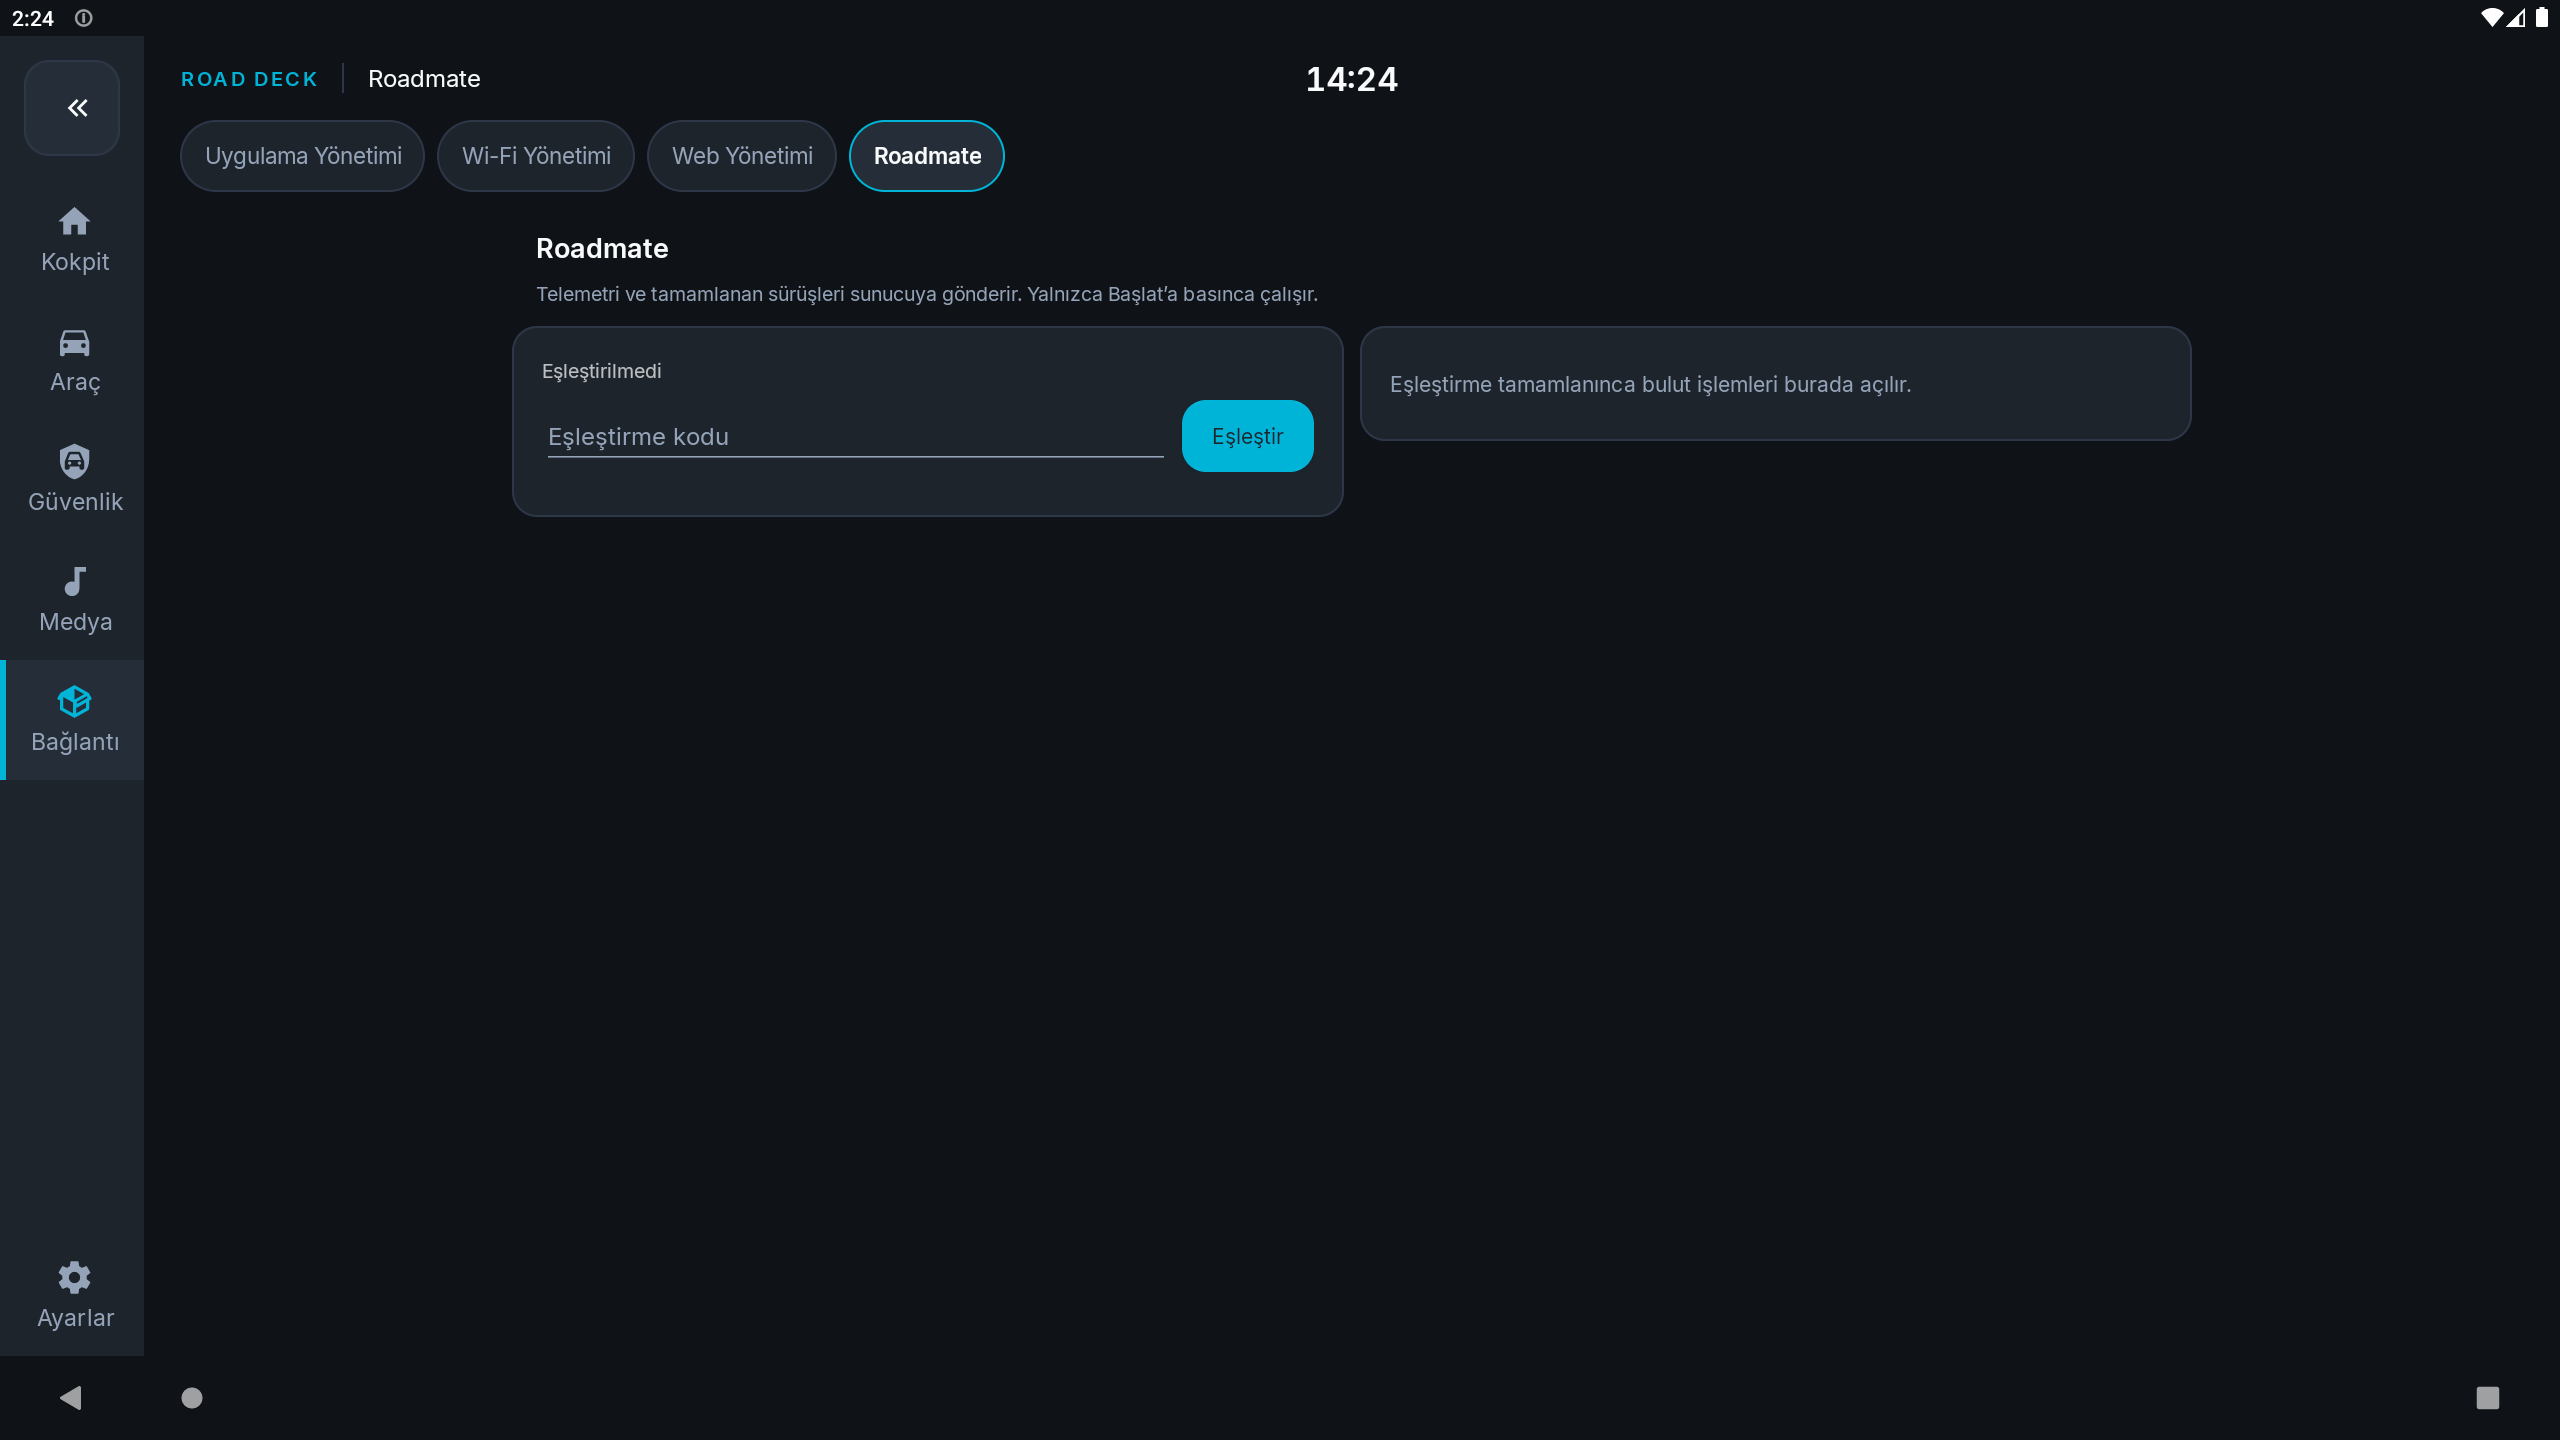
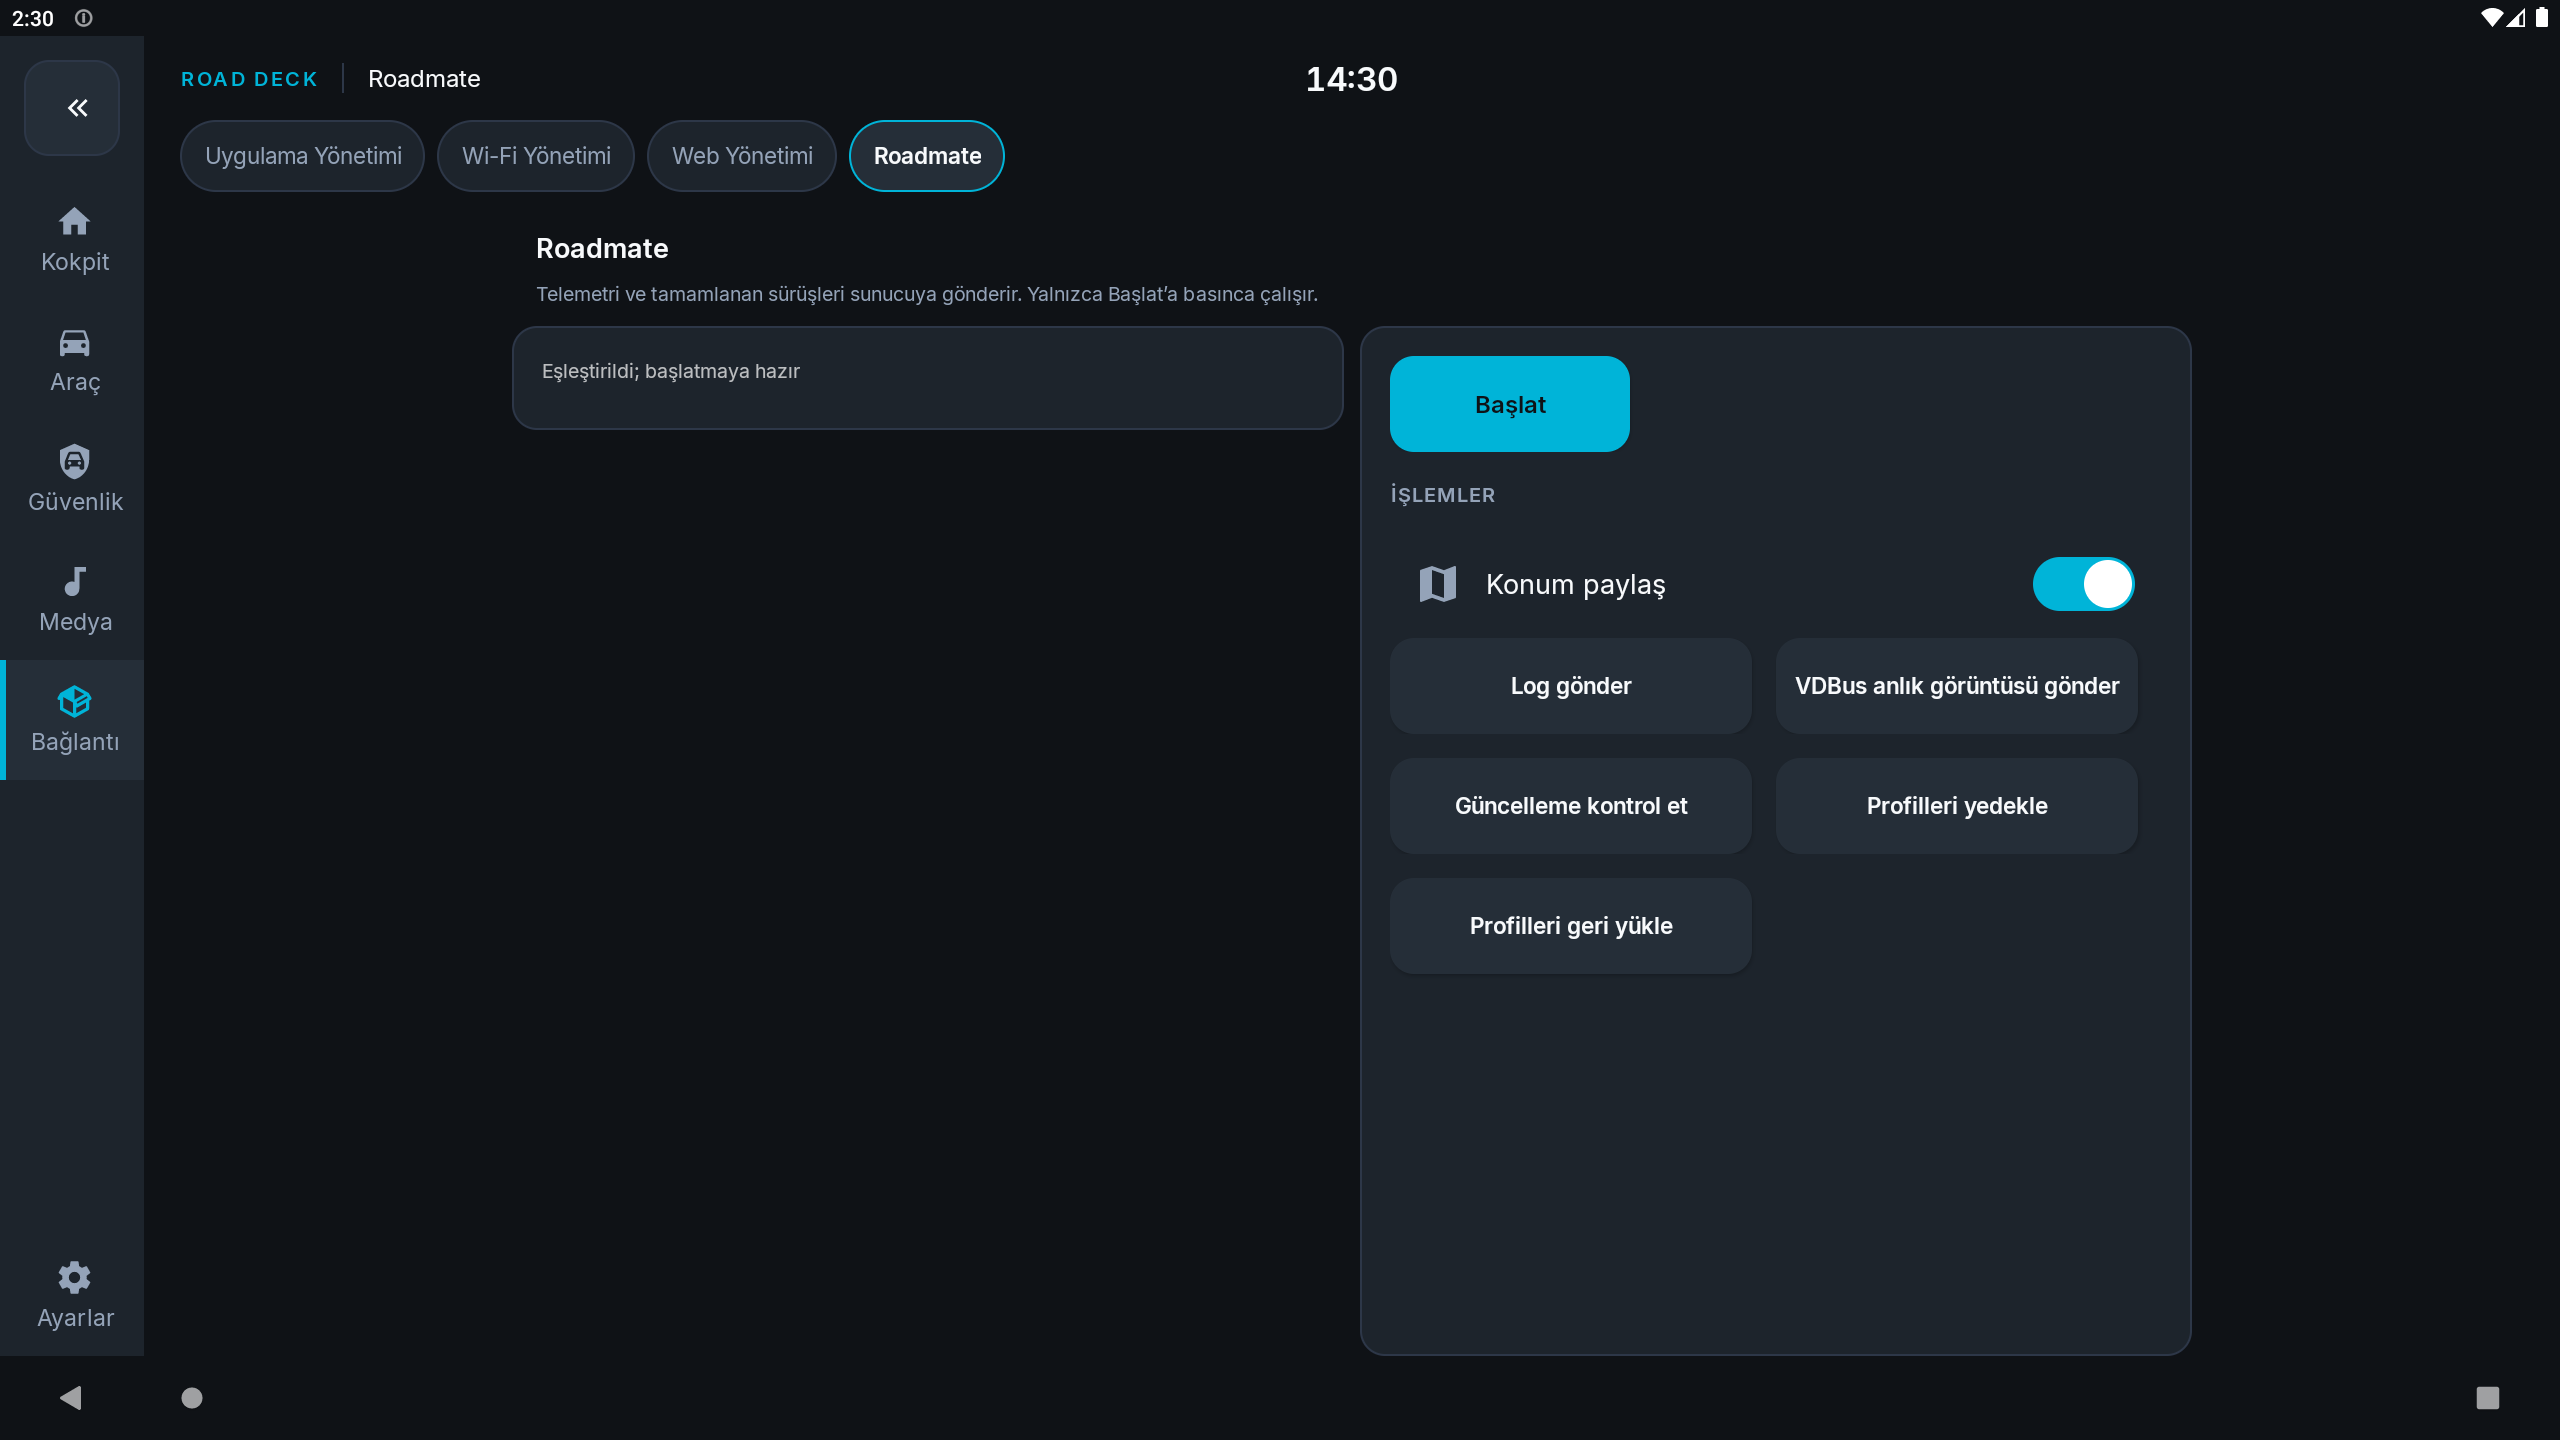
F4: Roadmate eslesmis gorunum yeniden duzenlendi
- Baslat butonu icerik boyutlu
- Islemler 2 kolon grid; Log/VDBus/Guncelleme/Yedekle/Geri yukle
- Son tek buton yarim kolon; Konum paylas CockpitToggleRow

diff --git a/app/src/main/java/com/mapcontrol/cloud/CloudTabBuilder.java b/app/src/main/java/com/mapcontrol/cloud/CloudTabBuilder.java
@@ -16,6 +16,8 @@ import android.widget.TextView;
 import android.widget.Toast;
 
 import com.mapcontrol.R;
+import com.mapcontrol.ui.cockpit.CockpitGrid;
+import com.mapcontrol.ui.cockpit.CockpitTokens;
 import com.mapcontrol.ui.cockpit.CockpitSurfaces;
 import com.mapcontrol.ui.cockpit.CockpitToggleRow;
 import com.mapcontrol.ui.cockpit.CockpitTokens;
@@ -133,10 +135,26 @@ public final class CloudTabBuilder {
 
         startStopButton = new Button(context);
         startStopButton.setAllCaps(false);
-        startStopButton.setTextColor(UiStyles.color(context, R.color.surfaceCard));
-        UiStyles.applySolidRoundedBackground(
-                startStopButton, UiStyles.color(context, R.color.buttonPrimary));
-        pairedRow.addView(startStopButton, matchWidth());
+        startStopButton.setTextSize(16);
+        UiStyles.styleOemButton(startStopButton, CockpitTokens.color(context, R.color.ck_accent));
+        startStopButton.setTextColor(CockpitTokens.color(context, R.color.ck_on_accent));
+        startStopButton.setMinWidth(CockpitTokens.dim(context, R.dimen.ck_action_min_w));
+        startStopButton.setMaxWidth(CockpitTokens.dim(context, R.dimen.ck_action_max_w));
+        LinearLayout startRow = new LinearLayout(context);
+        startRow.setOrientation(LinearLayout.HORIZONTAL);
+        startRow.addView(startStopButton, new LinearLayout.LayoutParams(
+                LinearLayout.LayoutParams.WRAP_CONTENT, LinearLayout.LayoutParams.WRAP_CONTENT));
+        LinearLayout.LayoutParams startRowLp = matchWidth();
+        startRowLp.bottomMargin = dp(8);
+        pairedRow.addView(startRow, startRowLp);
+
+        TextView actionsTitle = new TextView(context);
+        actionsTitle.setText(R.string.ck_roadmate_actions);
+        CockpitTokens.labelCaps(actionsTitle);
+        actionsTitle.setPadding(0, dp(10), 0, dp(6));
+        pairedRow.addView(actionsTitle, matchWidth());
+
+        CockpitGrid actionsGrid = new CockpitGrid(context);
 
         shareLocationRow = new CockpitToggleRow(context, R.drawable.ic_mdi_map,
                 context.getString(R.string.settings_cloud_share_location), null,
@@ -148,42 +166,44 @@ public final class CloudTabBuilder {
         logUploadButton = new Button(context);
         logUploadButton.setText(R.string.settings_cloud_send_log);
         logUploadButton.setAllCaps(false);
-        logUploadButton.setTextColor(UiStyles.color(context, R.color.textPrimary));
-        UiStyles.applySolidRoundedBackground(
-                logUploadButton, UiStyles.color(context, R.color.buttonNeutral));
-        pairedRow.addView(logUploadButton, matchWidth());
+        logUploadButton.setTextSize(15);
+        logUploadButton.setTextColor(CockpitTokens.color(context, R.color.ck_text_high));
+        UiStyles.styleOemButton(logUploadButton, CockpitTokens.color(context, R.color.ck_surface_2));
+        actionsGrid.add(logUploadButton, 4);
 
         vdbusButton = new Button(context);
         vdbusButton.setText(R.string.settings_cloud_vdbus_snapshot);
         vdbusButton.setAllCaps(false);
-        vdbusButton.setTextColor(UiStyles.color(context, R.color.textPrimary));
-        UiStyles.applySolidRoundedBackground(
-                vdbusButton, UiStyles.color(context, R.color.buttonNeutral));
-        pairedRow.addView(vdbusButton, matchWidth());
+        vdbusButton.setTextSize(15);
+        vdbusButton.setTextColor(CockpitTokens.color(context, R.color.ck_text_high));
+        UiStyles.styleOemButton(vdbusButton, CockpitTokens.color(context, R.color.ck_surface_2));
+        actionsGrid.add(vdbusButton, 4);
 
         updateButton = new Button(context);
         updateButton.setText(R.string.settings_cloud_check_update);
         updateButton.setAllCaps(false);
-        updateButton.setTextColor(UiStyles.color(context, R.color.textPrimary));
-        UiStyles.applySolidRoundedBackground(
-                updateButton, UiStyles.color(context, R.color.buttonNeutral));
-        pairedRow.addView(updateButton, matchWidth());
+        updateButton.setTextSize(15);
+        updateButton.setTextColor(CockpitTokens.color(context, R.color.ck_text_high));
+        UiStyles.styleOemButton(updateButton, CockpitTokens.color(context, R.color.ck_surface_2));
+        actionsGrid.add(updateButton, 4);
 
         backupButton = new Button(context);
         backupButton.setText(R.string.settings_cloud_backup);
         backupButton.setAllCaps(false);
-        backupButton.setTextColor(UiStyles.color(context, R.color.textPrimary));
-        UiStyles.applySolidRoundedBackground(
-                backupButton, UiStyles.color(context, R.color.buttonNeutral));
-        pairedRow.addView(backupButton, matchWidth());
+        backupButton.setTextSize(15);
+        backupButton.setTextColor(CockpitTokens.color(context, R.color.ck_text_high));
+        UiStyles.styleOemButton(backupButton, CockpitTokens.color(context, R.color.ck_surface_2));
+        actionsGrid.add(backupButton, 4);
 
         restoreButton = new Button(context);
         restoreButton.setText(R.string.settings_cloud_restore);
         restoreButton.setAllCaps(false);
-        restoreButton.setTextColor(UiStyles.color(context, R.color.textPrimary));
-        UiStyles.applySolidRoundedBackground(
-                restoreButton, UiStyles.color(context, R.color.buttonNeutral));
-        pairedRow.addView(restoreButton, matchWidth());
+        restoreButton.setTextSize(15);
+        restoreButton.setTextColor(CockpitTokens.color(context, R.color.ck_text_high));
+        UiStyles.styleOemButton(restoreButton, CockpitTokens.color(context, R.color.ck_surface_2));
+        actionsGrid.add(restoreButton, 4);
+        actionsGrid.add(new View(context), 4); // tek kalan buton yarim kalsin
+        pairedRow.addView(actionsGrid, matchWidth());
         actionsCard.addView(pairedRow, matchWidth());
 
         LinearLayout.LayoutParams leftLp = new LinearLayout.LayoutParams(
